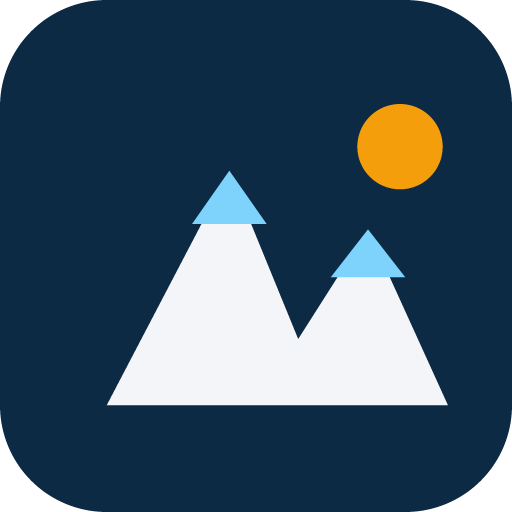
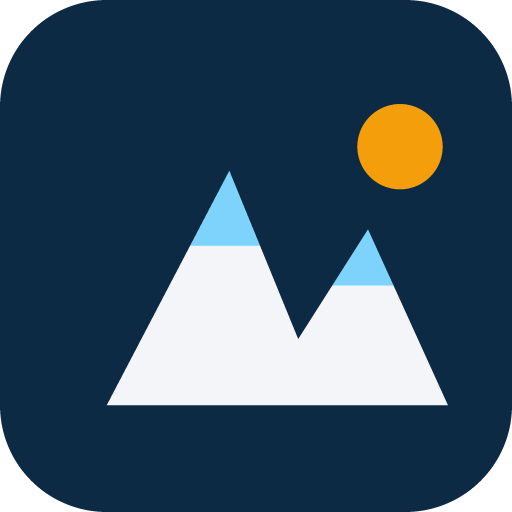
Popravi sneg na ikoni, da ne štrli čez rob gore
Snežna kapa je bila samostojen trikotnik z lastnimi robovi, zato je
pri obeh vrhovih segala čez pobočje. Zdaj je pomanjšan trikotnik po
istih robovih kot vrh (isto oglišče, isti dve stranici), zato ostane
znotraj obrisa gore ne glede na velikost ikone.

diff --git a/tools/make-icons.js b/tools/make-icons.js
@@ -109,14 +109,14 @@ function drawIcon(size, maskable) {
   for (i = 0; i < peakB.length; i += 2) polyB.push(X(peakB[i]), Y(peakB[i + 1]));
   bmp.fill(function (x, y) { return insidePolygon(x, y, polyB); }, PEAK);
 
-  // sneg na vrhu A
-  var snowA = [72, 84, 86, 64, 100, 84];
+  // sneg na vrhu A — pomanjšan trikotnik po istih robovih kot vrh A, da ne štrli čez rob
+  var snowA = [71.3, 92.2, 86, 64, 97.5, 92.2];
   var polySA = [];
   for (i = 0; i < snowA.length; i += 2) polySA.push(X(snowA[i]), Y(snowA[i + 1]));
   bmp.fill(function (x, y) { return insidePolygon(x, y, polySA); }, SNOW);
 
-  // sneg na vrhu B
-  var snowB = [124, 104, 138, 86, 152, 104];
+  // sneg na vrhu B — pomanjšan trikotnik po istih robovih kot vrh B
+  var snowB = [124.6, 107.1, 138, 86, 147.6, 107.1];
   var polySB = [];
   for (i = 0; i < snowB.length; i += 2) polySB.push(X(snowB[i]), Y(snowB[i + 1]));
   bmp.fill(function (x, y) { return insidePolygon(x, y, polySB); }, SNOW);

diff --git a/sw.js b/sw.js
@@ -1,7 +1,7 @@
 /* Predpomnilnik lupine aplikacije, da deluje tudi brez povezave.
    Ploščice zemljevida (tuja domena) gredo mimo predpomnilnika naravnost v omrežje.
    Ob spremembi datotek povečaj VERSION. */
-var VERSION = 'kam-v5';
+var VERSION = 'kam-v6';
 var SHELL = [
   './', './index.html', './style.css', './icon.svg', './manifest.json',
   './js/app.js',
